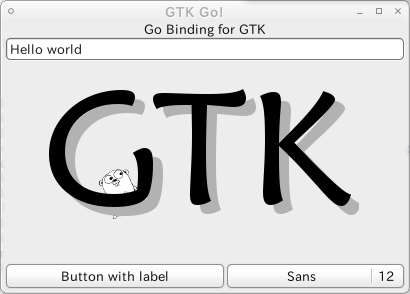
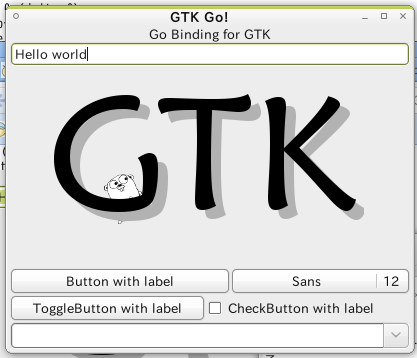
update screenshot.

diff --git a/index.html b/index.html
@@ -32,10 +32,137 @@
 </pre>
 		</article>
 		<br />
+		<article id="coding" class="blocked-content">
+			<h2 class="maintitle">Coding Style</h2>
+<blockquote class="code">
+<span class="PreProc">package</span>&nbsp;main<br />
+<br />
+<span class="PreProc">import</span>&nbsp;(<br />
+&nbsp;&nbsp;<span class="Constant">&quot;os&quot;</span>;<br />
+&nbsp;&nbsp;<span class="Constant">&quot;gtk&quot;</span>;<br />
+&nbsp;&nbsp;<span class="Constant">&quot;unsafe&quot;</span>;<br />
+&nbsp;&nbsp;<span class="Constant">&quot;path&quot;</span>;<br />
+)<br />
+<br />
+<span class="Type">func</span>&nbsp;main()&nbsp;{<br />
+&nbsp;&nbsp;&nbsp;&nbsp;gtk.Init(&amp;os.Args);<br />
+&nbsp;&nbsp;&nbsp;&nbsp;window := gtk.Window(gtk.GTK_WINDOW_TOPLEVEL);<br />
+&nbsp;&nbsp;&nbsp;&nbsp;window.SetTitle(<span class="Constant">&quot;GTK Go!&quot;</span>);<br />
+&nbsp;&nbsp;&nbsp;&nbsp;window.Connect(<span class="Constant">&quot;destroy&quot;</span>, <span class="Type">func</span>(w *gtk.GtkWidget, args []unsafe.Pointer)&nbsp;{<br />
+&nbsp;&nbsp;&nbsp;&nbsp;&nbsp;&nbsp;&nbsp;&nbsp;println(<span class="Constant">&quot;got destroy!&quot;</span>);<br />
+&nbsp;&nbsp;&nbsp;&nbsp;&nbsp;&nbsp;&nbsp;&nbsp;gtk.MainQuit();<br />
+&nbsp;&nbsp;&nbsp;&nbsp;}, nil);<br />
+<br />
+&nbsp;&nbsp;&nbsp;&nbsp;<span class="Comment">//--------------------------------------------------------</span><br />
+&nbsp;&nbsp;&nbsp;&nbsp;<span class="Comment">// GtkVBox</span><br />
+&nbsp;&nbsp;&nbsp;&nbsp;<span class="Comment">//--------------------------------------------------------</span><br />
+&nbsp;&nbsp;&nbsp;&nbsp;vbox := gtk.VBox(<span class="Constant">false</span>, <span class="Constant">1</span>);<br />
+<br />
+&nbsp;&nbsp;&nbsp;&nbsp;<span class="Comment">//--------------------------------------------------------</span><br />
+&nbsp;&nbsp;&nbsp;&nbsp;<span class="Comment">// GtkImage</span><br />
+&nbsp;&nbsp;&nbsp;&nbsp;<span class="Comment">//--------------------------------------------------------</span><br />
+&nbsp;&nbsp;&nbsp;&nbsp;dir, _ := path.Split(os.Args[<span class="Constant">0</span>]);<br />
+&nbsp;&nbsp;&nbsp;&nbsp;imagefile := path.Join(dir, <span class="Constant">&quot;../data/go-gtk-logo.png&quot;</span>); <br />
+<br />
+&nbsp;&nbsp;&nbsp;&nbsp;label := gtk.Label(<span class="Constant">&quot;Go Binding for GTK&quot;</span>);<br />
+&nbsp;&nbsp;&nbsp;&nbsp;vbox.PackStart(label, <span class="Constant">false</span>, <span class="Constant">true</span>, <span class="Constant">0</span>);<br />
+<br />
+&nbsp;&nbsp;&nbsp;&nbsp;entry := gtk.Entry();<br />
+&nbsp;&nbsp;&nbsp;&nbsp;entry.SetText(<span class="Constant">&quot;Hello world&quot;</span>);<br />
+&nbsp;&nbsp;&nbsp;&nbsp;vbox.Add(entry);<br />
+<br />
+&nbsp;&nbsp;&nbsp;&nbsp;image := gtk.ImageFromFile(imagefile);<br />
+&nbsp;&nbsp;&nbsp;&nbsp;vbox.Add(image);<br />
+<br />
+&nbsp;&nbsp;&nbsp;&nbsp;<span class="Comment">//--------------------------------------------------------</span><br />
+&nbsp;&nbsp;&nbsp;&nbsp;<span class="Comment">// GtkHBox</span><br />
+&nbsp;&nbsp;&nbsp;&nbsp;<span class="Comment">//--------------------------------------------------------</span><br />
+&nbsp;&nbsp;&nbsp;&nbsp;buttons := gtk.HBox(<span class="Constant">false</span>, <span class="Constant">1</span>);<br />
+<br />
+&nbsp;&nbsp;&nbsp;&nbsp;<span class="Comment">//--------------------------------------------------------</span><br />
+&nbsp;&nbsp;&nbsp;&nbsp;<span class="Comment">// GtkButton</span><br />
+&nbsp;&nbsp;&nbsp;&nbsp;<span class="Comment">//--------------------------------------------------------</span><br />
+&nbsp;&nbsp;&nbsp;&nbsp;button := gtk.ButtonWithLabel(<span class="Constant">&quot;Button with label&quot;</span>);<br />
+&nbsp;&nbsp;&nbsp;&nbsp;button.Clicked(<span class="Type">func</span>(w *gtk.GtkWidget, args []unsafe.Pointer)&nbsp;{<br />
+&nbsp;&nbsp;&nbsp;&nbsp;&nbsp;&nbsp;&nbsp;&nbsp;print(<span class="Constant">&quot;button clicked: &quot;</span>, button.GetLabel(), <span class="Constant">&quot;</span><span class="Special">\n</span><span class="Constant">&quot;</span>);<br />
+&nbsp;&nbsp;&nbsp;&nbsp;&nbsp;&nbsp;&nbsp;&nbsp;dialog := gtk.MessageDialog(<br />
+&nbsp;&nbsp;&nbsp;&nbsp;&nbsp;&nbsp;&nbsp;&nbsp;&nbsp;&nbsp;&nbsp;&nbsp;button.GetTopLevelAsWindow(),<br />
+&nbsp;&nbsp;&nbsp;&nbsp;&nbsp;&nbsp;&nbsp;&nbsp;&nbsp;&nbsp;&nbsp;&nbsp;gtk.GTK_DIALOG_MODAL,<br />
+&nbsp;&nbsp;&nbsp;&nbsp;&nbsp;&nbsp;&nbsp;&nbsp;&nbsp;&nbsp;&nbsp;&nbsp;gtk.GTK_MESSAGE_INFO,<br />
+&nbsp;&nbsp;&nbsp;&nbsp;&nbsp;&nbsp;&nbsp;&nbsp;&nbsp;&nbsp;&nbsp;&nbsp;gtk.GTK_BUTTONS_OK,<br />
+&nbsp;&nbsp;&nbsp;&nbsp;&nbsp;&nbsp;&nbsp;&nbsp;&nbsp;&nbsp;&nbsp;&nbsp;entry.GetText()<br />
+&nbsp;&nbsp;&nbsp;&nbsp;&nbsp;&nbsp;&nbsp;&nbsp;);<br />
+&nbsp;&nbsp;&nbsp;&nbsp;&nbsp;&nbsp;&nbsp;&nbsp;dialog.Response(<span class="Type">func</span>(w *gtk.GtkWidget, args []unsafe.Pointer)&nbsp;{<br />
+&nbsp;&nbsp;&nbsp;&nbsp;&nbsp;&nbsp;&nbsp;&nbsp;&nbsp;&nbsp;&nbsp;&nbsp;println(<span class="Constant">&quot;Dialog OK!&quot;</span>)<br />
+&nbsp;&nbsp;&nbsp;&nbsp;&nbsp;&nbsp;&nbsp;&nbsp;}, nil);<br />
+&nbsp;&nbsp;&nbsp;&nbsp;&nbsp;&nbsp;&nbsp;&nbsp;dialog.Run();<br />
+&nbsp;&nbsp;&nbsp;&nbsp;&nbsp;&nbsp;&nbsp;&nbsp;dialog.Destroy();<br />
+&nbsp;&nbsp;&nbsp;&nbsp;}, nil);<br />
+&nbsp;&nbsp;&nbsp;&nbsp;buttons.Add(button);<br />
+<br />
+&nbsp;&nbsp;&nbsp;&nbsp;<span class="Comment">//--------------------------------------------------------</span><br />
+&nbsp;&nbsp;&nbsp;&nbsp;<span class="Comment">// GtkFontButton</span><br />
+&nbsp;&nbsp;&nbsp;&nbsp;<span class="Comment">//--------------------------------------------------------</span><br />
+&nbsp;&nbsp;&nbsp;&nbsp;fontbutton := gtk.FontButton();<br />
+&nbsp;&nbsp;&nbsp;&nbsp;fontbutton.Connect(<span class="Constant">&quot;font-set&quot;</span>, <span class="Type">func</span>(w *gtk.GtkWidget, args []unsafe.Pointer)&nbsp;{<br />
+&nbsp;&nbsp;&nbsp;&nbsp;&nbsp;&nbsp;&nbsp;&nbsp;print(<span class="Constant">&quot;title: &quot;</span>, fontbutton.GetTitle(), <span class="Constant">&quot;</span><span class="Special">\n</span><span class="Constant">&quot;</span>);<br />
+&nbsp;&nbsp;&nbsp;&nbsp;&nbsp;&nbsp;&nbsp;&nbsp;print(<span class="Constant">&quot;fontname: &quot;</span>, fontbutton.GetFontName(), <span class="Constant">&quot;</span><span class="Special">\n</span><span class="Constant">&quot;</span>);<br />
+&nbsp;&nbsp;&nbsp;&nbsp;&nbsp;&nbsp;&nbsp;&nbsp;print(<span class="Constant">&quot;use_size: &quot;</span>, fontbutton.GetUseSize(), <span class="Constant">&quot;</span><span class="Special">\n</span><span class="Constant">&quot;</span>);<br />
+&nbsp;&nbsp;&nbsp;&nbsp;&nbsp;&nbsp;&nbsp;&nbsp;print(<span class="Constant">&quot;show_size: &quot;</span>, fontbutton.GetShowSize(), <span class="Constant">&quot;</span><span class="Special">\n</span><span class="Constant">&quot;</span>);<br />
+&nbsp;&nbsp;&nbsp;&nbsp;}, nil);<br />
+&nbsp;&nbsp;&nbsp;&nbsp;buttons.Add(fontbutton);<br />
+&nbsp;&nbsp;&nbsp;&nbsp;vbox.Add(buttons);<br />
+<br />
+&nbsp;&nbsp;&nbsp;&nbsp;buttons = gtk.HBox(<span class="Constant">false</span>, <span class="Constant">1</span>);<br />
+<br />
+&nbsp;&nbsp;&nbsp;&nbsp;<span class="Comment">//--------------------------------------------------------</span><br />
+&nbsp;&nbsp;&nbsp;&nbsp;<span class="Comment">// GtkToggleButton</span><br />
+&nbsp;&nbsp;&nbsp;&nbsp;<span class="Comment">//--------------------------------------------------------</span><br />
+&nbsp;&nbsp;&nbsp;&nbsp;togglebutton := gtk.ToggleButtonWithLabel(<span class="Constant">&quot;ToggleButton with label&quot;</span>);<br />
+&nbsp;&nbsp;&nbsp;&nbsp;togglebutton.Connect(<span class="Constant">&quot;toggled&quot;</span>, <span class="Type">func</span>(w *gtk.GtkWidget, args []unsafe.Pointer)&nbsp;{<br />
+&nbsp;&nbsp;&nbsp;&nbsp;&nbsp;&nbsp;&nbsp;&nbsp;<span class="Statement">if</span>&nbsp;togglebutton.GetActive()&nbsp;{<br />
+&nbsp;&nbsp;&nbsp;&nbsp;&nbsp;&nbsp;&nbsp;&nbsp;&nbsp;&nbsp;&nbsp;&nbsp;togglebutton.SetLabel(<span class="Constant">&quot;ToggleButton ON!&quot;</span>);<br />
+&nbsp;&nbsp;&nbsp;&nbsp;&nbsp;&nbsp;&nbsp;&nbsp;} <span class="Statement">else</span>&nbsp;{<br />
+&nbsp;&nbsp;&nbsp;&nbsp;&nbsp;&nbsp;&nbsp;&nbsp;&nbsp;&nbsp;&nbsp;&nbsp;togglebutton.SetLabel(<span class="Constant">&quot;ToggleButton OFF!&quot;</span>);<br />
+&nbsp;&nbsp;&nbsp;&nbsp;&nbsp;&nbsp;&nbsp;&nbsp;}<br />
+&nbsp;&nbsp;&nbsp;&nbsp;}, nil);<br />
+&nbsp;&nbsp;&nbsp;&nbsp;buttons.Add(togglebutton);<br />
+<br />
+&nbsp;&nbsp;&nbsp;&nbsp;<span class="Comment">//--------------------------------------------------------</span><br />
+&nbsp;&nbsp;&nbsp;&nbsp;<span class="Comment">// GtkCheckButton</span><br />
+&nbsp;&nbsp;&nbsp;&nbsp;<span class="Comment">//--------------------------------------------------------</span><br />
+&nbsp;&nbsp;&nbsp;&nbsp;checkbutton := gtk.CheckButtonWithLabel(<span class="Constant">&quot;CheckButton with label&quot;</span>);<br />
+&nbsp;&nbsp;&nbsp;&nbsp;checkbutton.Connect(<span class="Constant">&quot;toggled&quot;</span>, <span class="Type">func</span>(w *gtk.GtkWidget, args []unsafe.Pointer)&nbsp;{<br />
+&nbsp;&nbsp;&nbsp;&nbsp;&nbsp;&nbsp;&nbsp;&nbsp;<span class="Statement">if</span>&nbsp;checkbutton.GetActive()&nbsp;{<br />
+&nbsp;&nbsp;&nbsp;&nbsp;&nbsp;&nbsp;&nbsp;&nbsp;&nbsp;&nbsp;&nbsp;&nbsp;checkbutton.SetLabel(<span class="Constant">&quot;CheckButton CHECKED!&quot;</span>);<br />
+&nbsp;&nbsp;&nbsp;&nbsp;&nbsp;&nbsp;&nbsp;&nbsp;} <span class="Statement">else</span>&nbsp;{<br />
+&nbsp;&nbsp;&nbsp;&nbsp;&nbsp;&nbsp;&nbsp;&nbsp;&nbsp;&nbsp;&nbsp;&nbsp;checkbutton.SetLabel(<span class="Constant">&quot;CheckButton UNCHECKED!&quot;</span>);<br />
+&nbsp;&nbsp;&nbsp;&nbsp;&nbsp;&nbsp;&nbsp;&nbsp;}<br />
+&nbsp;&nbsp;&nbsp;&nbsp;}, nil);<br />
+&nbsp;&nbsp;&nbsp;&nbsp;buttons.Add(checkbutton);<br />
+&nbsp;&nbsp;&nbsp;&nbsp;vbox.Add(buttons);<br />
+<br />
+&nbsp;&nbsp;&nbsp;&nbsp;combos := gtk.HBox(<span class="Constant">false</span>, <span class="Constant">1</span>);<br />
+<br />
+&nbsp;&nbsp;&nbsp;&nbsp;comboboxentry := gtk.ComboBoxEntryNewText();<br />
+&nbsp;&nbsp;&nbsp;&nbsp;comboboxentry.Connect(<span class="Constant">&quot;changed&quot;</span>, <span class="Type">func</span>(w *gtk.GtkWidget, args []unsafe.Pointer)&nbsp;{<br />
+&nbsp;&nbsp;&nbsp;&nbsp;&nbsp;&nbsp;&nbsp;&nbsp;<span class="Comment">//comboboxentry...</span><br />
+&nbsp;&nbsp;&nbsp;&nbsp;}, nil);<br />
+&nbsp;&nbsp;&nbsp;&nbsp;combos.Add(comboboxentry);<br />
+&nbsp;&nbsp;&nbsp;&nbsp;vbox.Add(combos);<br />
+<br />
+&nbsp;&nbsp;&nbsp;&nbsp;window.Add(vbox);<br />
+<br />
+&nbsp;&nbsp;&nbsp;&nbsp;window.ShowAll();<br />
+&nbsp;&nbsp;&nbsp;&nbsp;gtk.Main();<br />
+}<br />
+</blockquote>
+		</article>
+		<br />
 		<article id="screenshot" class="blocked-content">
 			<h2 class="maintitle">Screenshot</h2>
 			<p>
-			<img src="http://github.com/mattn/go-gtk/raw/gh-pages/static/images/screenshot.png" alt="Go GTK!" title="Go GTK!" />
+			<img src="static/images/screenshot.png" alt="Go GTK!" title="Go GTK!" />
 			</p>
 		</article>
 		<br />

diff --git a/static/css/style-sites.css b/static/css/style-sites.css
@@ -90,3 +90,89 @@ pre.code {
 	width: 500px;
 }
 
+blockquote.code {
+ border-bottom    : 1px solid #777777;
+ border-left      : 5px solid #777777;
+ border-right     : 1px solid #777777;
+ border-top       : 1px solid #777777;
+ background       : #555555;
+ color            : #ffffff;
+ display          : block;
+ font-family      : monospace;
+ font-size        : small;
+ width            : 100%;
+ padding-top      : 0.2em;
+ padding-bottom   : 1.2em;
+ padding-left     : 0.5em;
+ padding-right    : 0em;
+ overflow         : auto;
+ white-space      : nowrap;
+ margin-left      : 0px;
+}
+.code .Comment {
+ color: #aaaaaa;
+}
+.code .Constant,
+.code .String,
+.code .Character,
+.code .Number,
+.code .Boolean,
+.code .Float {
+ color: #aa7777;
+}
+.code .Identifier,
+.code .Function {
+ color: #77aa77;
+}
+.code .Statement,
+.code .Conditional,
+.code .Repeat,
+.code .Label,
+.code .Operator,
+.code .Keyword,
+.code .Exception {
+ color: #77aaaa;
+}
+.code .PreProc,
+.code .Include,
+.code .Define,
+.code .Macro,
+.code .PreCondit {
+ color: #aaffff;
+}
+.code .Type,
+.code .StorageClass,
+.code .Structure,
+.code .Typedef {
+ color: #aaaa55;
+}
+.code .Special,
+.code .SpecialChar,
+.code .Tag,
+.code .Delimiter,
+.code .SpecialComment,
+.code .Debug {
+ color: #777777;
+}
+.code .Underlined {
+ color: #00ff00; /* TODO */
+ text-decoration: underline;
+}
+.code .Ignore {
+ color: #777777; /* TODO */
+}
+.code .Error {
+ color: #ffffff; /* TODO */
+ background-color: #ff0000; /* TODO */
+}
+.code .Todo {
+ color: #0000ff; /* TODO */
+}
+.code .Folded {
+ color: #aaffff;
+ background-color: #999999;
+}
+.code .Cursor {
+ color: #555555;
+ background-color: #ffffff;
+}
